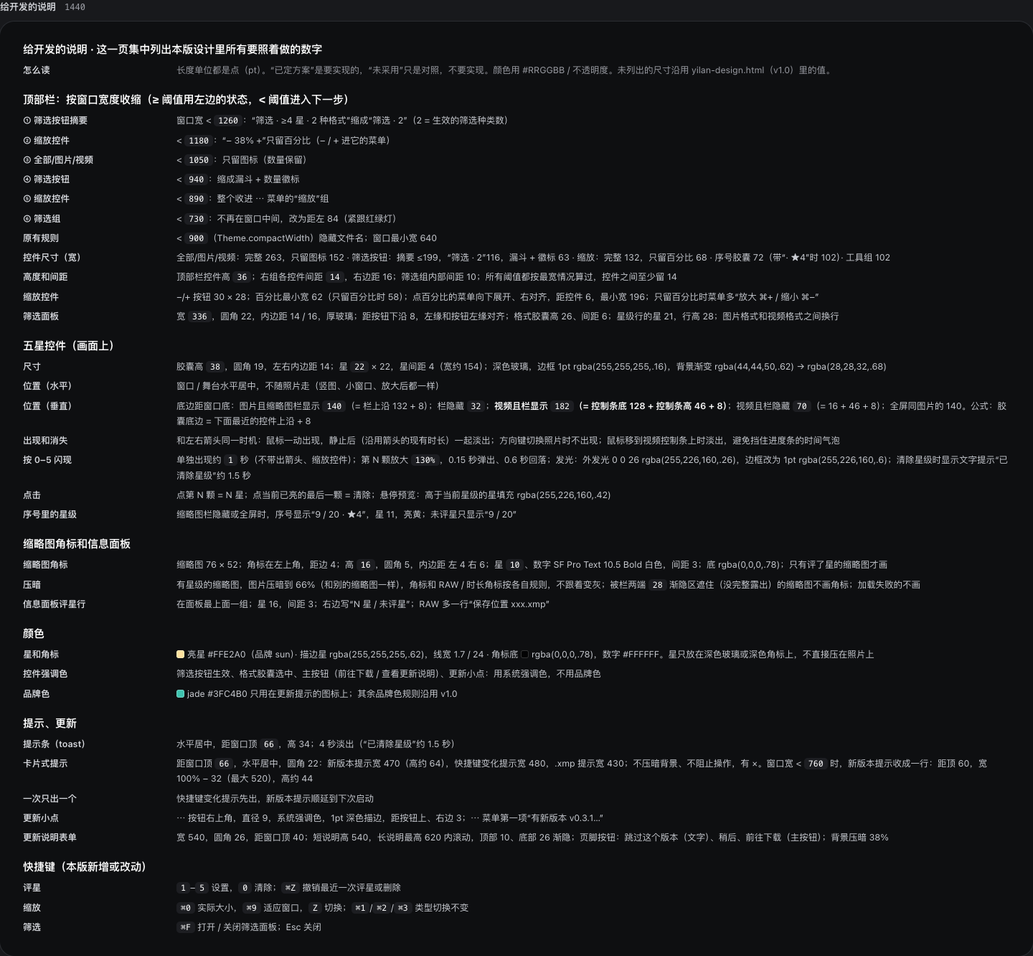
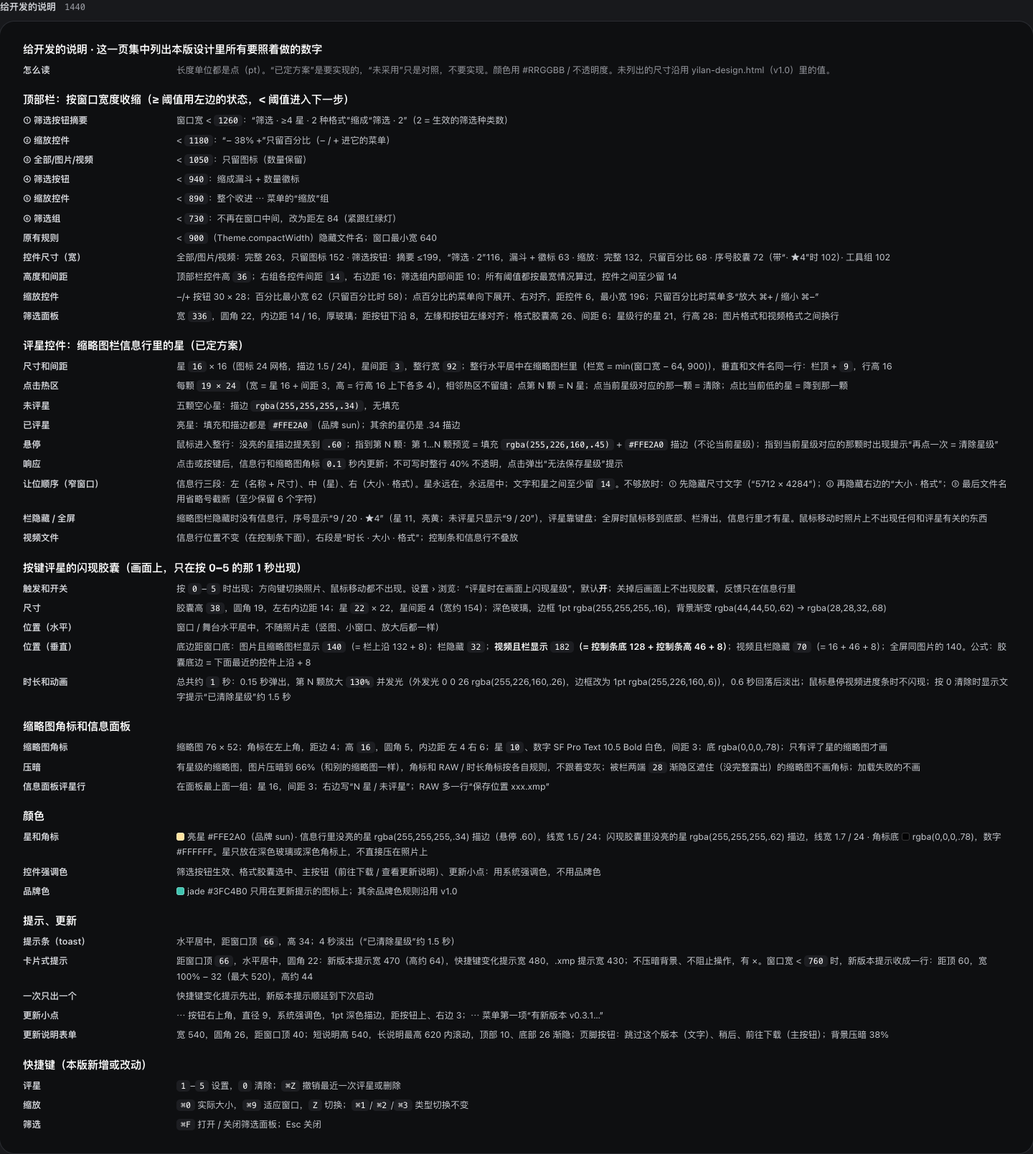
设计稿 v0.3：采用方案一（星放进缩略图栏信息行，按键评星时画面闪现），更新主稿、开发说明和方案记录页

diff --git a/changes/v0.3/design/index.html b/changes/v0.3/design/index.html
@@ -479,6 +479,13 @@ html,body{margin:0;background:var(--canvas);color:var(--t1);font-family:var(--sf
 .devn .g2 b{color:var(--label-2);font-weight:600}
 .devn code{font:500 11.5px var(--mono);color:#fff;background:#1d1e22;border-radius:5px;padding:1px 6px}
 .devn .sw2{display:inline-block;width:11px;height:11px;border-radius:3px;vertical-align:-1px;margin-right:4px;box-shadow:inset 0 0 0 1px rgba(255,255,255,.25)}
+
+/* 方案一：信息行里的星（缩略图栏信息行，居中，16pt） */
+.mstars{display:flex;gap:3px;align-items:center;height:16px;white-space:nowrap}
+.mstars .st{width:16px;height:16px;stroke-width:1.5}
+.mstars .st:not(.on):not(.hv){stroke:rgba(255,255,255,.34)}
+.mstars.hov .st:not(.on):not(.hv){stroke:rgba(255,255,255,.6)}
+.mstars .st.hv{fill:rgba(255,226,160,.45);stroke:var(--brand-sun)}
 </style>
 </head>
 <body>
@@ -712,10 +719,17 @@ const rby=n=>RL.find(x=>x.n===n);
 const FL=RL.filter(x=>x.r>=4);               /* ≥4 星：7 个 */
 const atLeast=n=>RL.filter(x=>x.r>=n).length, unrated=RL.filter(x=>!x.r).length;
 
-/* 画面上的五星控件：深色玻璃胶囊，锚在舞台底边正中，缩略图栏上沿再往上 8（栏隐藏或全屏时距底 32 / 140）。
-   和箭头、缩放控件一起出现（鼠标移动）；按 0–5 时单独闪现约 1 秒 */
+/* 按键评星时闪现的五星胶囊：深色玻璃，锚在舞台底边正中，缩略图栏上沿再往上 8（栏隐藏或全屏时距底 32 / 140）。
+   只在按 0–5 时闪现约 1 秒（设置里可关），鼠标移动时不出现 */
 function stageStars(n,o={}){const bt=o.video?(o.nodock?70:182):(o.nodock?32:140);   /* 视频：贴着控制条上沿再往上 8（控制条距底 128 或 16，高 46） */
   return`<div class="rate g adapt ${o.flash?'flash':''}" style="bottom:${bt}px">${stars5(n,22,{hv:o.hv,pop:o.pop})}</div>`}
+/* 信息行里的星：16pt，间距 3，居中在缩略图栏信息行（栏顶 +9，和文件名同一行）。hover = 悬停到第几颗（预览）；rel = 画板里单独摆放 */
+function rowStars(n,o={}){const hv=o.hover||0;
+  const st=[1,2,3,4,5].map(i=>star(16,!hv&&i<=n,(hv&&i<=hv?'hv':''))).join('');
+  return`<span class="mstars ${hv?'hov':''}" style="${o.rel?'':'position:absolute;left:50%;top:9px;transform:translateX(-50%)'}">${st}</span>`}
+const withR=(r,name='IMG_2034.HEIC',patch={})=>{const base=RL.find(x=>x.n===name),it={...base,...patch,r};return{it,list:RL.map(x=>x===base?it:x)}};
+const hideDims=(h,it)=>h.replace(`<span class="num">${it.w} × ${it.h}</span>`,'');
+const hideSize=(h,it)=>h.replace(`<span class="num">${it.vid?mmss(it.dur)+' · ':''}${it.s} · ${it.fmt}</span>`,'');
 /* 顶部缩放控件：− 百分比 +，高 36，和序号胶囊同高同材质，在顶部栏右组里、序号胶囊左边。
    mode：full = − 38% +；pct = 只留百分比（− / + 进菜单）；none = 整个收进 ⋯ 菜单 */
 const ZFULL=1200, SLIM=1060, ZMENU=920, LEFTAL=760;   /* 窗口宽度阈值：<1200 缩放只留百分比；<1060 筛选组瘦身；<920 缩放收进 ⋯ 菜单；<760 筛选组不再居中 */
@@ -800,36 +814,51 @@ function w3(o){const W=o.w||1280,compact=o.compact??W<900,T=tiers(W),st=o.st||ST
   const zm=o.zm||T.zoom;
   const hasZ=o.item&&!o.item.err&&!o.nozoom&&zm!=='none';
   const zcHtml=hasZ?zoomTop(o.pct||38,{mode:zm,...(o.zo||{})}):'';
-  const extra=(o.nofg?'':filterGroup(st,{mode:o.bm||T.btn,slim:T.slim,left:T.left,panel:o.panel}))+(o.chips?chipsBar(st):'')+(o.stars!=null?stageStars(o.stars,{nodock:o.nodock,flash:o.flash,pop:o.pop,video:!!(o.item&&o.item.vid)}):'')+(o.extra||'');
+  const extra=(o.nofg?'':filterGroup(st,{mode:o.bm||T.btn,slim:T.slim,left:T.left,panel:o.panel}))+(o.chips?chipsBar(st):'')+(o.flash&&o.stars!=null?stageStars(o.stars,{nodock:o.nodock,flash:o.flash,pop:o.pop,video:!!(o.item&&o.item.vid)}):'')+(o.extra||'');
   const {st:_s,bm:_bm,panel:_p,chips:_ch,zm:_b,stars:_c,flash:_d,pop:_e,nozoom:_f,nofg:_g,zo:_h,pct:_i,extra:_j,...rest}=o;
-  return win({list:R.list,noseg:1,compact,zcHtml,...rest,extra})}
+  const mm=o.metaMid!==undefined?o.metaMid:(o.item&&!o.item.err&&!o.nodock?rowStars(o.item.r||0):'');
+  return win({list:R.list,noseg:1,compact,zcHtml,...rest,metaMid:mm,extra})}
 
 /* ---- 1.1 ---- */
 const mainRest=w3({item:I34,nonav:1});
-const mainMove=w3({item:I34,stars:4,extra:cursorSVG(760,430)});
+const U0=withR(0);
+const rowUn=w3({item:U0.it,list:U0.list,nonav:1});
+const rowHover=w3({item:I34,nonav:1,metaMid:rowStars(4,{hover:3}),extra:cursorSVG(646,700)});
+const rowClear=w3({item:I34,nonav:1,metaMid:rowStars(4,{hover:4}),extra:`<div class="rtip gt" style="left:50%;bottom:142px;z-index:6">再点一次第 4 颗 = 清除星级</div>`+cursorSVG(666,700)});
 const rateMoment=w3({item:I34,nonav:1,stars:4,flash:1,pop:4});
-const stripHidden=w3({item:I34,nodock:1,stars:4,pillSfx:starSfx(4)});
-const posPortrait=w3({item:rby('IMG_2035.HEIC'),stars:3});
-const posSmall=w3({w:760,h:540,item:I34,stars:4,dw:700});
+const stripHidden=w3({item:I34,nodock:1,nonav:1,pillSfx:starSfx(4)});
+const LONGN='IMG_20261015_184622_HDR.HEIC',LG=withR(4,'IMG_2034.HEIC',{n:LONGN});
+const rowNarrow=hideDims(w3({w:640,h:440,item:LG.it,list:LG.list,dw:576,nonav:1}),LG.it);
+const giveWay=`<div class="board" style="width:1440px;height:360px;padding:30px 36px;flex-direction:column;gap:12px"><img class="bg" src="../../../design/photos/p1043.jpg" alt="">
+ ${[['宽度够：名称 + 尺寸 | 星 | 大小 + 格式（短名称）',h=>h.replace(LONGN,'IMG_2034.HEIC').replace(`<span class="num">${LG.it.w} × ${LG.it.h}</span>`,'<span class="num">5712 × 4284</span>')],['第 1 步：尺寸文字先让位（长名称）',h=>hideDims(h,LG.it)],['第 2 步：再让大小和格式；名称最后才被截断；星始终在、始终居中',h=>hideSize(hideDims(h,LG.it),LG.it)]].map(([l,f])=>`<div class="crow" style="gap:20px"><div style="width:560px;height:104px;position:relative;flex:none">${f(dock(LG.list,LG.list.indexOf(LG.it),1280,{dw:560,style:'left:0;transform:none;bottom:0',metaMid:rowStars(4)}))}</div><div style="font-size:12.5px;color:rgba(255,255,255,.8)">${l}</div></div>`).join('')}</div>`;
+const posPortrait=w3({item:rby('IMG_2035.HEIC'),nonav:1,stars:3,flash:1});
+const posSmall=w3({w:760,h:540,item:I34,nonav:1,stars:4,flash:1,dw:700});
 const posFs=win({w:1440,h:900,item:I34,list:RL,fs:1,extra:stageStars(4)});
 const posBoard=`<div class="board" style="width:1440px;height:430px;padding:28px 36px;flex-direction:row;gap:20px;align-items:flex-end"><img class="bg" src="../../../design/photos/p1043.jpg" alt="">${scaled(posPortrait,1280,800,.42)}${scaled(posSmall,760,540,.46)}${scaled(posFs,1440,900,.28)}</div>`;
 const IP=h=>h.replace('class="ip gt"','class="ip gt" style="bottom:132px"');
 const infoHeic=w3({item:I31,panel:300,stars:3,extra:IP(infoV3(I31,'photo','文件内部'))});
 const infoRaw=w3({item:rby('DSC_0812.ARW'),panel:300,stars:4,extra:IP(infoV3(rby('DSC_0812.ARW'),'photo','DSC_0812.xmp'))});
-const rateStates=`<div class="board" style="width:1440px;height:330px;padding:36px"><img class="bg" src="../../../design/photos/p1043.jpg" alt="">
- <div class="crow" style="gap:48px;align-items:flex-start">
-  <div class="var"><div class="rate g adapt rel">${stars5(0,22)}</div>未评星<br>五颗都是描边</div>
-  <div class="var"><div class="rate g adapt rel">${stars5(3,22,{hv:4})}</div>评了 3 星，鼠标移到第 4 颗<br>预览：第 4 颗半透明填充</div>
-  <div class="var"><div class="rate g adapt rel flash">${stars5(4,22,{pop:4})}</div>刚评 4 星<br>最后一颗放大 130% 并发光，约 1 秒后淡出</div>
-  <div class="var"><div class="rate g adapt rel">${stars5(5,22)}</div>5 星</div>
-  <div class="var"><div class="rate g adapt rel" style="opacity:.4">${stars5(0,22)}</div>文件不可写 / 无法评星<br>整条 40% 不透明，点击弹出提示</div>
+const dk=(inner,w=130)=>`<div class="g adapt" style="position:relative;width:${w}px;height:34px;border-radius:12px;display:grid;place-items:center">${inner}</div>`;
+const hitBox=`<span style="position:relative;display:inline-block;height:16px">${rowStars(4,{rel:1})}<span style="position:absolute;left:0;top:-4px;width:95px;height:24px;border:1px dashed #ff2d92;pointer-events:none;background:repeating-linear-gradient(90deg,transparent 0 18px,rgba(255,45,146,.7) 18px 19px)"></span></span>`;
+const rateStates=`<div class="board" style="width:1440px;height:380px;padding:30px 36px"><img class="bg" src="../../../design/photos/p1043.jpg" alt="">
+ <div class="cl" style="width:auto;margin-bottom:-12px">信息行里的星（16pt，放在缩略图栏信息行中间）</div>
+ <div class="crow" style="gap:36px;align-items:flex-start">
+  <div class="var">${dk(rowStars(0,{rel:1}))}未评星<br>淡空心星，描边 34%</div>
+  <div class="var">${dk(rowStars(4,{rel:1}))}已评 4 星<br>亮星 #FFE2A0，其余仍是淡空心</div>
+  <div class="var">${dk(rowStars(4,{rel:1,hover:3}))}悬停第 3 颗<br>1–3 颗预览填充，其余描边提亮到 60%</div>
+  <div class="var">${dk(rowStars(4,{rel:1,hover:4}))}悬停当前星（第 4 颗）<br>预览不变；点击 = 清除星级</div>
+  <div class="var">${dk(hitBox)}点击热区<br>每颗 19 × 24（粉色虚线，设计标注）</div>
+  <div class="var"><div class="g adapt" style="position:relative;width:130px;height:34px;border-radius:12px;display:grid;place-items:center;opacity:.4">${rowStars(0,{rel:1})}</div>不可写 / 无法评星<br>整行 40% 不透明，点击弹出提示</div>
  </div>
- <div class="crow" style="gap:48px;align-items:flex-start;margin-top:6px">
-  <div class="var"><div class="rate g adapt rel">${stars5(3,22)}</div>点击当前的第 3 颗 → 清除星级<br>（和按 0 一样）</div>
-  <div class="var"><div class="toast g adapt" style="position:relative;left:auto;transform:none">${ic('star')}已清除星级</div>清除时才有文字提示，约 1.5 秒后淡出</div>
+ <div class="cl" style="width:auto;margin:6px 0 -12px">按 0–5 的闪现（画面底部居中的胶囊，约 1 秒；设置里可关）</div>
+ <div class="crow" style="gap:48px;align-items:flex-start">
+  <div class="var"><div class="rate g adapt rel flash">${stars5(4,22,{pop:4})}</div>刚评 4 星<br>最后一颗放大 130% 并发光，约 1 秒后淡出</div>
+  <div class="var"><div class="toast g adapt" style="position:relative;left:auto;transform:none">${ic('star')}已清除星级</div>按 0 清除时才有文字提示，约 1.5 秒</div>
  </div></div>`;
-const contrast=`<div class="cmp" style="gap:24px">${[['p49','亮色画面（白色建筑）'],['p1016','中间调（岩石）'],['p1019','暗色画面']].map(([f,n])=>`<div style="gap:8px"><div style="position:relative;width:464px;height:200px;border-radius:14px;overflow:hidden"><img src="../../../design/photos/${f}.jpg" style="position:absolute;inset:0;width:100%;height:100%;object-fit:cover"><div class="rate g adapt" style="bottom:14px">${stars5(3,22)}</div><div style="position:absolute;left:12px;top:12px"><div class="th rt" style="width:76px;height:52px;opacity:1"><img src="../../../design/photos/t/${f}.jpg">${ratingBadge(4)}</div></div></div><span style="font-size:12px;color:var(--label)">${n}</span></div>`).join('')}</div>`;
-/* 缩略图角标可读性：左侧窗口里的缩略图栏，选中、未选中、被栏边缘渐隐遮住的 */
+const BR=n=>withR(n,'IMG_2051.JPG'),DK=n=>withR(n,'harbor_night.png');
+const rdim=(o,r)=>{const x=o(r);return crop(w3({item:x.it,list:x.list,nonav:1}),310,668,660,132)};
+const contrast=`<div class="board" style="width:1440px;height:400px;padding:28px 36px;flex-direction:row;gap:24px 28px;flex-wrap:wrap;align-content:flex-start"><img class="bg" src="../../../design/photos/p1043.jpg" alt="">
+ ${[['亮色照片 · 未评星',BR,0],['亮色照片 · 已评 4 星',BR,4],['暗色照片 · 未评星',DK,0],['暗色照片 · 已评 4 星',DK,4]].map(([l,o,r])=>`<div style="display:flex;flex-direction:column;gap:6px"><span style="font:600 12px var(--sf);color:rgba(255,255,255,.75)">${l}</span>${rdim(o,r)}</div>`).join('')}</div>`;
 const badgeBoard=`<div class="board" style="width:1440px;height:250px;padding:36px"><img class="bg" src="../../../design/photos/p1043.jpg" alt="">
  <div class="crow" style="gap:40px;align-items:flex-start"><div class="var"><div class="rel" style="width:700px;height:96px">${dock(RL,8,1200,{dw:700,style:'bottom:0'})}</div>栏两端 28 点是渐隐区：没完全露出的缩略图不画角标</div>
  <div class="var"><div style="display:flex;gap:10px;align-items:center"><div class="th rt" style="width:76px;height:52px;opacity:1"><img src="../../../design/photos/t/p1016.jpg">${ratingBadge(4)}</div><div class="th rt on" style="width:76px;height:52px;transform:none"><img src="../../../design/photos/t/p1016.jpg">${ratingBadge(4)}</div></div>未选中 / 选中：亮黄星 + 白色数字<br>黑底 78%，高 16 点</div></div></div>`;
@@ -884,10 +913,10 @@ const noticeKeys=w3({item:I34,stars:4,extra:`<div class="hint gt" style="top:66p
 function settingsBrowse3(){let h=settings('browse');
   const row=(l,c,s='',ann='')=>`<div class="row" ${ann?`data-ann="${ann}"`:''}><div class="lb">${l}${s?`<small>${s}</small>`:''}</div>${c}</div>`;
   const rad=(on,l,s)=>`<div class="row" style="padding:10px 14px"><div class="rd ${on?'on':''}"></div><div class="lb">${l}<small>${s}</small></div></div>`;
-  const add=`<div class="grp">${row('打星后自动跳到下一张','<div class="tg"><i></i></div>','默认关闭。打开后，按 1–5 或 0 评星会立刻显示下一张','v0.3 新增')}</div>
+  const add=`<div class="grp">${row('评星时在画面上闪现星级','<div class="tg on"><i></i></div>','默认打开。按 0–5 评星后，画面底部居中闪现约 1 秒五星；关掉后画面上不出现任何东西，反馈只在缩略图栏信息行里','v0.3 新增')}${row('打星后自动跳到下一张','<div class="tg"><i></i></div>','默认关闭。打开后，按 1–5 或 0 评星会立刻显示下一张','v0.3 新增')}</div>
   <div style="display:flex;flex-direction:column;gap:6px"><div class="mhead" style="padding:0 4px" data-ann="v0.3 新增">星级保存到哪里</div><div class="grp">${rad(1,'写入文件内部（推荐，其他软件可读）','JPEG、PNG、HEIC 等直接写进文件的元数据，预览、Lightroom 等都能读到')}${rad(0,'一律使用旁边的 .xmp 小文件','不改动图片本身；换到别的软件时要连同 .xmp 一起带走')}</div><div class="mrow">RAW（ARW、CR3、NEF 等）不能写入文件内部，始终使用旁边的 .xmp。</div></div>`;
   const key='<div class="grp"><div class="row"><div class="lb">自动隐藏控件';
-  return h.replace(key,add+key).replace('height:700px','height:950px')}
+  return h.replace(key,add+key).replace('height:700px','height:1010px')}
 function settingsKeys3(){let h=settings('keys');
   const R='<div class="row" style="min-height:31px;padding:4px 14px">';
   const ann=(label,a)=>{h=h.replace(R+'<div class="lb">'+label,'<div class="row" data-ann="'+a+'" style="min-height:31px;padding:4px 14px"><div class="lb">'+label)};
@@ -962,15 +991,14 @@ function settingsGeneral3(){let h=settings('general');
 /* ---- 视频文件上的五星：贴着视频控制条上沿 ---- */
 const bigplay=`<div class="bigplay g" style="left:601px;top:298px">${ic('play')}</div>`;
 const vidRest=w3({item:IV,nonav:1,extra:bigplay+vbar(IV,12,false)});
-const vidMove=w3({item:IV,stars:4,extra:bigplay+vbar(IV,12,false)+cursorSVG(700,480)});
 const vidFlash=w3({item:IV,nonav:1,stars:4,flash:1,pop:4,extra:vbar(IV,27,true)});
 const vidFiltered=w3({item:IV,st:STV,stars:4,extra:bigplay+vbar(IV,12,false)});
 const ruleCrop=(html,capB,note)=>{const y0=520,top=800-y0-capB;   /* 胶囊底边在局部图里的 y；窗口底在 y = 280 */
   return `<div style="position:relative;flex:none">${crop(html,290,y0,700,280)}
    <div class="rl v" style="left:620px;top:${top}px;height:${capB}px"></div><div class="rl h" style="left:600px;width:40px;top:${top}px"></div><div class="rlb" style="left:524px;top:${top+capB/2-9}px">${note}</div></div>`};
 const ruleBoard=`<div class="board" style="width:1440px;height:380px;padding:32px 36px;flex-direction:row;gap:40px"><img class="bg" src="../../../design/photos/p1043.jpg" alt="">
- <div style="display:flex;flex-direction:column;gap:8px"><span style="font:600 12px var(--sf);color:rgba(255,255,255,.7)">图片：胶囊底边距窗口底 140 = 缩略图栏上沿 132 + 8</span>${ruleCrop(mainMove,140,'距底 140')}</div>
- <div style="display:flex;flex-direction:column;gap:8px"><span style="font:600 12px var(--sf);color:rgba(255,255,255,.7)">视频：胶囊底边距窗口底 182 = 控制条底 128 + 控制条高 46 + 8</span>${ruleCrop(vidMove,182,'距底 182')}</div></div>`;
+ <div style="display:flex;flex-direction:column;gap:8px"><span style="font:600 12px var(--sf);color:rgba(255,255,255,.7)">图片闪现：胶囊底边距窗口底 140 = 缩略图栏上沿 132 + 8</span>${ruleCrop(rateMoment,140,'距底 140')}</div>
+ <div style="display:flex;flex-direction:column;gap:8px"><span style="font:600 12px var(--sf);color:rgba(255,255,255,.7)">视频闪现：胶囊底边距窗口底 182 = 控制条底 128 + 控制条高 46 + 8</span>${ruleCrop(vidFlash,182,'距底 182')}</div></div>`;
 const devNotes=`<div class="devn">
  <div><h4>给开发的说明 · 这一页集中列出本版设计里所有要照着做的数字</h4><div class="g2" style="color:var(--label)"><b>怎么读</b><span>长度单位都是点（pt）。“已定方案”是要实现的，“未采用”只是对照，不要实现。颜色用 #RRGGBB / 不透明度。未列出的尺寸沿用 yilan-design.html（v1.0）里的值。</span></div></div>
  <div><h4>顶部栏：按窗口宽度收缩（≥ 阈值用左边的状态，< 阈值进入下一步）</h4><div class="g2">
@@ -986,14 +1014,23 @@ const devNotes=`<div class="devn">
   <b>缩放控件</b><span>−/+ 按钮 30 × 28；百分比最小宽 62（只留百分比时 58）；点百分比的菜单向下展开、右对齐，距控件 6，最小宽 196；只留百分比时菜单多“放大 ⌘+ / 缩小 ⌘−”</span>
   <b>筛选面板</b><span>宽 <code>336</code>，圆角 22，内边距 14 / 16，厚玻璃；距按钮下沿 8，左缘和按钮左缘对齐；格式胶囊高 26、间距 6；星级行的星 21，行高 28；图片格式和视频格式之间换行</span>
  </div></div>
- <div><h4>五星控件（画面上）</h4><div class="g2">
+ <div><h4>评星控件：缩略图栏信息行里的星（已定方案）</h4><div class="g2">
+  <b>尺寸和间距</b><span>星 <code>16</code> × 16（图标 24 网格，描边 1.5 / 24），星间距 <code>3</code>，整行宽 <code>92</code>；整行水平居中在缩略图栏里（栏宽 = min(窗口宽 − 64, 900)），垂直和文件名同一行：栏顶 + <code>9</code>，行高 16</span>
+  <b>点击热区</b><span>每颗 <code>19 × 24</code>（宽 = 星 16 + 间距 3，高 = 行高 16 上下各多 4），相邻热区不留缝；点第 N 颗 = N 星；点当前星级对应的那一颗 = 清除；点比当前低的星 = 降到那一颗</span>
+  <b>未评星</b><span>五颗空心星：描边 <code>rgba(255,255,255,.34)</code>，无填充</span>
+  <b>已评星</b><span>亮星：填充和描边都是 <code>#FFE2A0</code>（品牌 sun）；其余的星仍是 .34 描边</span>
+  <b>悬停</b><span>鼠标进入整行：没亮的星描边提亮到 <code>.60</code>；指到第 N 颗：第 1…N 颗预览 = 填充 <code>rgba(255,226,160,.45)</code> + <code>#FFE2A0</code> 描边（不论当前星级）；指到当前星级对应的那颗时出现提示“再点一次 = 清除星级”</span>
+  <b>响应</b><span>点击或按键后，信息行和缩略图角标 <code>0.1</code> 秒内更新；不可写时整行 40% 不透明，点击弹出“无法保存星级”提示</span>
+  <b>让位顺序（窄窗口）</b><span>信息行三段：左（名称 + 尺寸）、中（星）、右（大小 · 格式）。星永远在，永远居中；文字和星之间至少留 <code>14</code>。不够放时：① 先隐藏尺寸文字（“5712 × 4284”）；② 再隐藏右边的“大小 · 格式”；③ 最后文件名用省略号截断（至少保留 6 个字符）</span>
+  <b>栏隐藏 / 全屏</b><span>缩略图栏隐藏时没有信息行，序号显示“9 / 20 · ★4”（星 11，亮黄；未评星只显示“9 / 20”），评星靠键盘；全屏时鼠标移到底部、栏滑出，信息行里才有星。鼠标移动时照片上不出现任何和评星有关的东西</span>
+  <b>视频文件</b><span>信息行位置不变（在控制条下面），右段是“时长 · 大小 · 格式”；控制条和信息行不叠放</span>
+ </div></div>
+ <div><h4>按键评星的闪现胶囊（画面上，只在按 0–5 的那 1 秒出现）</h4><div class="g2">
+  <b>触发和开关</b><span>按 <code>0</code>–<code>5</code> 时出现；方向键切换照片、鼠标移动都不出现。设置 › 浏览：“评星时在画面上闪现星级”，默认<b style="color:#fff">开</b>；关掉后画面上不出现胶囊，反馈只在信息行里</span>
   <b>尺寸</b><span>胶囊高 <code>38</code>，圆角 19，左右内边距 14；星 <code>22</code> × 22，星间距 4（宽约 154）；深色玻璃，边框 1pt rgba(255,255,255,.16)，背景渐变 rgba(44,44,50,.62) → rgba(28,28,32,.68)</span>
   <b>位置（水平）</b><span>窗口 / 舞台水平居中，不随照片走（竖图、小窗口、放大后都一样）</span>
   <b>位置（垂直）</b><span>底边距窗口底：图片且缩略图栏显示 <code>140</code>（= 栏上沿 132 + 8）；栏隐藏 <code>32</code>；<b style="color:#fff">视频且栏显示 <code>182</code>（= 控制条底 128 + 控制条高 46 + 8）</b>；视频且栏隐藏 <code>70</code>（= 16 + 46 + 8）；全屏同图片的 140。公式：胶囊底边 = 下面最近的控件上沿 + 8</span>
-  <b>出现和消失</b><span>和左右箭头同一时机：鼠标一动出现，静止后（沿用箭头的现有时长）一起淡出；方向键切换照片时不出现；鼠标移到视频控制条上时淡出，避免挡住进度条的时间气泡</span>
-  <b>按 0–5 闪现</b><span>单独出现约 <code>1</code> 秒（不带出箭头、缩放控件）；第 N 颗放大 <code>130%</code>，0.15 秒弹出、0.6 秒回落；发光：外发光 0 0 26 rgba(255,226,160,.26)，边框改为 1pt rgba(255,226,160,.6)；清除星级时显示文字提示“已清除星级”约 1.5 秒</span>
-  <b>点击</b><span>点第 N 颗 = N 星；点当前已亮的最后一颗 = 清除；悬停预览：高于当前星级的星填充 rgba(255,226,160,.42)</span>
-  <b>序号里的星级</b><span>缩略图栏隐藏或全屏时，序号显示“9 / 20 · ★4”，星 11，亮黄；未评星只显示“9 / 20”</span>
+  <b>时长和动画</b><span>总共约 <code>1</code> 秒：0.15 秒弹出，第 N 颗放大 <code>130%</code> 并发光（外发光 0 0 26 rgba(255,226,160,.26)，边框改为 1pt rgba(255,226,160,.6)），0.6 秒回落后淡出；鼠标悬停视频进度条时不闪现；按 0 清除时显示文字提示“已清除星级”约 1.5 秒</span>
  </div></div>
  <div><h4>缩略图角标和信息面板</h4><div class="g2">
   <b>缩略图角标</b><span>缩略图 76 × 52；角标在左上角，距边 4；高 <code>16</code>，圆角 5，内边距 左 4 右 6；星 <code>10</code>、数字 SF Pro Text 10.5 Bold 白色，间距 3；底 rgba(0,0,0,.78)；只有评了星的缩略图才画</span>
@@ -1001,7 +1038,7 @@ const devNotes=`<div class="devn">
   <b>信息面板评星行</b><span>在面板最上面一组；星 16，间距 3；右边写“N 星 / 未评星”；RAW 多一行“保存位置 xxx.xmp”</span>
  </div></div>
  <div><h4>颜色</h4><div class="g2">
-  <b>星和角标</b><span><i class="sw2" style="background:#ffe2a0"></i>亮星 #FFE2A0（品牌 sun）· 描边星 rgba(255,255,255,.62)，线宽 1.7 / 24 · 角标底 <i class="sw2" style="background:#000;opacity:.78"></i>rgba(0,0,0,.78)，数字 #FFFFFF。星只放在深色玻璃或深色角标上，不直接压在照片上</span>
+  <b>星和角标</b><span><i class="sw2" style="background:#ffe2a0"></i>亮星 #FFE2A0（品牌 sun）· 信息行里没亮的星 rgba(255,255,255,.34) 描边（悬停 .60），线宽 1.5 / 24；闪现胶囊里没亮的星 rgba(255,255,255,.62) 描边，线宽 1.7 / 24 · 角标底 <i class="sw2" style="background:#000;opacity:.78"></i>rgba(0,0,0,.78)，数字 #FFFFFF。星只放在深色玻璃或深色角标上，不直接压在照片上</span>
   <b>控件强调色</b><span>筛选按钮生效、格式胶囊选中、主按钮（前往下载 / 查看更新说明）、更新小点：用系统强调色，不用品牌色</span>
   <b>品牌色</b><span><i class="sw2" style="background:#3fc4b0"></i>jade #3FC4B0 只用在更新提示的图标上；其余品牌色规则沿用 v1.0</span>
  </div></div>
@@ -1030,50 +1067,47 @@ ${fr('封面','1440 × 810',`<div class="cover"><img src="../../../design/photos
  </div></div>`)}
 ${fr('给开发的说明','1440',devNotes,'')}`);
 
-ch('01','v0.3 评星与筛选','评星（键盘 1–5 / 0，或点画面上的五星）、筛选（星级、格式）、顶部栏缩放控件、快捷键调整、写入失败和 .xmp 提示、导出筛选结果、更新提醒。亮星用品牌 sun #FFE2A0。',`
-<h3 class="sub"><span>1.1</span>评星：画面、缩略图、信息面板</h3>
+ch('01','v0.3 评星与筛选','评星（键盘 1–5 / 0，或点缩略图栏信息行里的星）、筛选（星级、格式）、顶部栏缩放控件、快捷键调整、写入失败和 .xmp 提示、导出筛选结果、更新提醒。亮星用品牌 sun #FFE2A0。',`
+<h3 class="sub"><span>1.1</span>评星：信息行里的星、缩略图角标、信息面板</h3>
 <div class="frames">
- ${fr('主界面 · 静止','1280 × 800',mainRest,'鼠标没动：左右箭头和底部五星隐藏；顶部栏（含缩放控件）一直在；缩略图上有星角标的是已评星的文件')}
- ${fr('主界面 · 鼠标移动','1280 × 800',mainMove,'左右箭头和底部五星一起出现，鼠标静止后一起淡出')}
- ${fr('评星的瞬间 · 按下 4','1280 × 800',rateMoment,'只闪现五星，不带出箭头；第 4 颗放大发光就是反馈，约 1 秒后淡出；缩略图角标同步变成 4')}
- ${fr('缩略图栏隐藏时 · 序号里带星级','1280 × 800',stripHidden,'按 T 隐藏缩略图栏（全屏也一样）：右上角序号后面加 ★ 和星级，不用呼出五星也能看到')}
- ${fr('五星控件的位置 · 竖图、小窗口、全屏','1440 × 430',posBoard,'位置不跟照片走，永远在舞台底边正中、缩略图栏上沿再往上 8')}
+ ${fr('主界面 · 已评星，静止','1280 × 800',mainRest,'评星控件是缩略图栏信息行里居中的五颗星（16pt）：左边文件名和尺寸，右边大小和格式。照片上没有任何和评星有关的东西，鼠标移动也不会出现')}
+ ${fr('信息行 · 未评星','1280 × 800',rowUn,'五颗很淡的空心星（描边白色 34%）：不评星的人几乎看不见，留心就能发现')}
+ ${fr('信息行 · 悬停第 3 颗','1280 × 800',rowHover,'整行描边提亮到 60%，第 1–3 颗预览填充；点击 = 设为 3 星')}
+ ${fr('信息行 · 悬停当前星','1280 × 800',rowClear,'当前是 4 星，指到第 4 颗时出现提示“再点一次 = 清除星级”；点击后恢复成未评星，并显示“已清除星级”')}
+ ${fr('评星的瞬间 · 按下 4（胶囊闪现）','1280 × 800',rateMoment,'按 0–5 时，画面底部居中的胶囊闪现约 1 秒，第 4 颗放大发光；信息行里的星同时更新。设置里可关闭闪现')}
+ ${fr('缩略图栏隐藏时 · 序号里带星级','1280 × 800',stripHidden,'按 T 隐藏缩略图栏（全屏也一样）：信息行不在了，右上角序号后面加 ★ 和星级，只读；评星靠键盘（闪现照常）')}
+ ${fr('信息行 · 窄窗口 640（名称很长）','640 × 440',rowNarrow,'空间不够时，信息行先隐藏尺寸文字；星始终保留并居中')}
+ ${fr('信息行的让位顺序','1440 × 360',giveWay,'① 尺寸文字 → ② 大小和格式 → ③ 名称最后才被截断；星永远不让位')}
+ ${fr('闪现胶囊的位置 · 竖图、小窗口、全屏','1440 × 430',posBoard,'闪现胶囊不跟照片走，永远在舞台底边正中、缩略图栏上沿再往上 8')}
 </div>
 ${legend([
- ['已定方案 · 五星控件位置','深色玻璃胶囊，锚在舞台底边正中、缩略图栏上沿之上 8 点，不贴照片边缘。竖图、小窗口、放大后位置都一样；缩略图栏隐藏时距窗口底 32；全屏时距屏幕底 140，给从底部滑入的缩略图栏留位置。'],
- ['已定方案 · 缩略图角标','左上角黑底小角标“★ 4”（亮黄星 + 白色数字），不和右下角的 RAW / 时长、左下角的“新”冲突。'],
+ ['已定方案 · 评星控件在信息行里','五颗星居中放在缩略图栏的信息行里（和文件名同一行），点击评星。鼠标移动时照片上不出现任何和评星有关的东西，所以从不评星的人只会看到信息行里五颗很淡的空心星。'],
+ ['点击和悬停','点第 N 颗 = N 星；点当前星级对应的那一颗 = 清除；点比当前低的星 = 降到那一颗。悬停时整行描边提亮，第 1…N 颗预览填充；悬停当前星时提示“再点一次 = 清除星级”。点击后 0.1 秒内更新，缩略图角标同步。视频和图片都能评。'],
+ ['按键评星的反馈（已定：闪现 b）','按 0–5 时，画面底部居中的胶囊闪现约 1 秒（0.15 秒弹出、0.6 秒回落），第 N 颗放大 130% 并发光；信息行里的星同时更新。用方向键切换照片时不闪现。设置 › 浏览里有开关“评星时在画面上闪现星级”，默认开；关掉后画面上什么都不出现，反馈只在信息行里。按 0 清除时显示文字提示“已清除星级”约 1.5 秒。'],
+ ['序号里的星级','缩略图栏隐藏或全屏时，右上角序号变成“9 / 20 · ★4”（星为亮黄）；未评星时只显示“9 / 20”。缩略图栏显示时不加，因为信息行和缩略图角标已经显示了。'],
+ ['缩略图栏隐藏和全屏','信息行随缩略图栏一起隐藏，所以不能用鼠标评星，只能用键盘；全屏时鼠标移到底部、缩略图栏滑出，信息行里的星才出现。这是已知的取舍。'],
+ ['缩略图角标（规则）','只有评了星的缩略图才有角标，未评星的文件夹和现在一样干净。有星级的缩略图仍压暗到 66%，但角标不跟着变暗。被栏两端渐隐遮住（没完整露出）的缩略图不画角标；加载失败的缩略图不显示。缩略图栏的环境光色调不变。'],
+ ['颜色','亮星固定 sun #FFE2A0（品牌色），淡空心星是白色 34% 描边。信息行在深色玻璃上；闪现胶囊也是深色玻璃；星星不直接压在照片上；控件按钮仍跟随系统强调色。'],
+ ['打星后自动下一张','设置里可开（默认关）。开启后评星立刻显示下一张；如果闪现开着，胶囊在新照片上闪现一下，让人知道上一张已记录。'],
 ])}
-<h3 class="sub" style="font-size:16px;margin-top:0"><span>视频</span>视频文件上的五星</h3>
+<h3 class="sub" style="font-size:16px;margin-top:0"><span>视频</span>视频文件上的评星</h3>
 <div class="frames">
- ${fr('视频 · 静止','1280 × 800',vidRest,'视频控制条一直在；箭头和五星隐藏，中间是播放按钮（停在第一帧）')}
- ${fr('视频 · 鼠标移动','1280 × 800',vidMove,'箭头出现，五星出现在控制条正上方，和控制条之间留 8；五星不盖控制条，控制条也不盖五星')}
- ${fr('视频 · 播放中按下 4','1280 × 800',vidFlash,'只闪现五星（约 1 秒），视频继续播放，控制条不变')}
- ${fr('视频 · 筛选状态（视频 · ≥4 星）','1280 × 800',vidFiltered,'筛选按钮“筛选 · ≥4 星”，类型是视频，序号“1 / 2”；五星规则不变')}
- ${fr('五星位置 · 图片和视频对比','1440 × 380',ruleBoard,'同一个水平位置，只是垂直方向让开控制条：140 → 182（上移 42）')}
+ ${fr('视频 · 静止','1280 × 800',vidRest,'评星控件仍在缩略图栏信息行里，在视频控制条下面，互不叠放；不再需要给控制条让位的特殊规则；鼠标移动也不出现任何评星控件')}
+ ${fr('视频 · 播放中按下 4','1280 × 800',vidFlash,'闪现胶囊出现在视频控制条正上方，和控制条之间留 8，视频继续播放，约 1 秒后淡出')}
+ ${fr('视频 · 筛选状态（视频 · ≥4 星）','1280 × 800',vidFiltered,'筛选按钮“筛选 · ≥4 星”，类型是视频，序号“1 / 2”；信息行里的星照常')}
+ ${fr('闪现胶囊的位置 · 图片和视频对比','1440 × 380',ruleBoard,'同一个水平位置，视频时垂直方向让开控制条：140 → 182（上移 42）')}
 </div>
 ${legend([
- ['视频上的规则','五星胶囊的底边永远在“它下面最近的控件”上沿再往上 8：图片时下面是缩略图栏（上沿距窗口底 132），所以是 140；视频时下面是视频控制条（底 128、高 46），所以是 182。水平方向不变，仍然居中，用户的视线和鼠标位置只需要往上移一点。缩略图栏隐藏时：图片 32，视频 70（控制条距底 16）。'],
- ['为什么放在控制条上面','控制条宽 580 居中，占满了舞台底部中间；五星和它同一条竖轴，向上挪 42 是最小的改动，用户不用重新找位置。放到控制条两侧会偏离中轴，放进控制条里会让它变得更挤、也更容易误点进度条。'],
- ['不遮挡进度条','五星在控制条上方，控制条在下方，两者之间始终留 8 点，不重叠。鼠标悬停进度条时会出现时间气泡（在进度条上方 16 点），这时五星淡出让位，鼠标离开后回来。播放时按 0–5：只闪现五星，视频不暂停，控制条不动。'],
- ['图片区','视频文件的画面区在控制条上方再让出 16（原有规则：底部让出 190），五星浮在画面下沿上，不改变画面大小。'],
+ ['视频上的闪现','闪现胶囊的底边永远在“它下面最近的控件”上沿再往上 8：图片时下面是缩略图栏（上沿距窗口底 132），所以是 140；视频时下面是视频控制条（底 128、高 46），所以是 182。水平方向仍然居中。缩略图栏隐藏时：图片 32，视频 70（控制条距底 16）。闪现只有约 1 秒，鼠标悬停进度条时不闪现（时间气泡优先）。播放时按 0–5：只闪现胶囊，视频不暂停，控制条不动。'],
+ ['信息行不受控制条影响','控制条在信息行上面（底 128），信息行在缩略图栏里，两者本来就不重叠，所以平时（包括鼠标移动）不再有“胶囊和控制条抢位置”的问题。'],
 ])}
-
 <div class="frames" style="margin-top:8px">
- ${fr('评星控件 · 状态','1440 × 330',rateStates,'悬停预览、刚评分、清除、不可写')}
- ${fr('星的可读性 · 亮、中、暗三种照片','1440 × 260',contrast,'星一律在深色玻璃 / 深色角标上，亮星用 sun #FFE2A0；三种照片上对比度都够')}
+ ${fr('评星控件 · 状态','1440 × 380',rateStates,'信息行里的星：未评星、已评、悬停、清除、热区；以及按键后的闪现和清除提示')}
+ ${fr('信息行里的星 · 亮、暗照片上的可读性','1440 × 400',contrast,'栏的玻璃随照片取色；左列是未评星的淡空心星，右列是已评星；亮、暗照片上都看得清')}
  ${fr('缩略图角标 · 可读性','1440 × 250',badgeBoard,'未选中的缩略图也是亮黄星 + 白色数字；被栏边缘渐隐遮住的缩略图不画角标')}
  ${fr('信息面板 · 评星行（JPEG / HEIC）','1280 × 800',infoHeic,'“评星”在面板最上面，星可以直接点；写在文件内部')}
  ${fr('信息面板 · 评星行（RAW）','1280 × 800',infoRaw,'RAW 的星级存在旁边的 .xmp 里，“保存位置”写出文件名')}
 </div>
-${legend([
- ['打星','键盘 1–5 设置星级，0 清除；点画面上的第 N 颗设置 N 星，点当前已亮的最后一颗清除。视频和图片都能评。信息面板里的星同样可以点。⌘Z 撤销最近一次评星（和撤销删除共用，见 1.6 的编辑菜单）。'],
- ['五星什么时候出现','不常驻。鼠标一动，它和左右箭头一起出现，鼠标静止后一起淡出。按 0–5 评星时只单独闪现约 1 秒（不带出箭头）；用方向键切换照片时不出现。缩放控件在顶部栏里，不跟五星一起出现和消失。'],
- ['反馈','评分后第 N 颗放大 130% 并发光（0.15 秒弹出、0.6 秒回落），不再加文字气泡；缩略图角标同步变化。只有清除星级时才显示一条文字提示“已清除星级”。'],
- ['序号里的星级','缩略图栏隐藏或全屏时，右上角序号变成“9 / 20 · ★4”（星为亮黄）；未评星时只显示“9 / 20”。缩略图栏显示时不加，因为缩略图角标已经显示了。'],
- ['缩略图角标（规则）','只有评了星的缩略图才有角标，未评星的文件夹和现在一样干净。有星级的缩略图仍压暗到 66%，但角标不跟着变暗。被栏两端渐隐遮住（没完整露出）的缩略图不画角标；加载失败的缩略图不显示。缩略图栏的环境光色调不变。'],
- ['颜色','亮星固定 sun #FFE2A0（品牌色），描边星白色 62%。星星只放在深色玻璃或深色角标上，不直接压在照片上；控件按钮仍跟随系统强调色。'],
- ['打星后自动下一张','设置里可开（默认关）。开启后评星立刻显示下一张，五星在新照片上闪现一下，让人知道上一张已记录。'],
-])}
 
 <h3 class="sub"><span>1.2</span>缩放控件（顶部栏）与窄窗口</h3>
 <div class="frames">
@@ -1148,7 +1182,7 @@ ${legend([
 
 <h3 class="sub"><span>1.5</span>设置：浏览、快捷键</h3>
 <div class="frames">
- ${fr('设置 · 浏览（评星）','820 × 950',`<div class="annwrap">${settingsBrowse3()}</div>`,'新增“打星后自动跳到下一张”（默认关）和“星级保存到哪里”。窗口外的粉色标签是设计标注，不属于界面')}
+ ${fr('设置 · 浏览（评星）','820 × 1010',`<div class="annwrap">${settingsBrowse3()}</div>`,'新增“评星时在画面上闪现星级”（默认开）、“打星后自动跳到下一张”（默认关）和“星级保存到哪里”。窗口外的粉色标签是设计标注，不属于界面')}
  ${fr('设置 · 快捷键','820 × 840',`<div class="annwrap">${settingsKeys3()}</div>`,'新增评星、Z 切换；适应窗口 / 实际大小改为 ⌘9 / ⌘0；撤销也覆盖评星。粉色标签是设计标注，不属于界面')}
 </div>
 ${legend([

diff --git a/changes/v0.3/design/star-options.html b/changes/v0.3/design/star-options.html
@@ -867,7 +867,7 @@ function settingsBrowse3(){let h=settings('browse');
 const o3Settings=(()=>{let h=settingsBrowse3();const a='<div class="grp"><div class="row" data-ann="v0.3 新增"><div class="lb">打星后自动跳到下一张';if(!h.includes(a))throw new Error('anchor');
   return h.replace(a,'<div class="grp"><div class="row" data-ann="方案三 新增"><div class="lb">在画面上显示评星控件<small>默认打开。关闭后，画面上不再出现五星，评星只用键盘 1–5 / 0 或信息面板里的星</small></div><div class="tg on"><i></i></div></div><div class="row" data-ann="v0.3 新增"><div class="lb">打星后自动跳到下一张').replace('height:950px','height:990px')})();
 /* 总览：对比表 + 1:1 底部对比 */
-const cmpTable=`<table class="cmpt"><thead><tr><th></th><th>方案一 <span class="pr">产品推荐</span><small>星放进缩略图栏信息行</small></th><th>方案二<small>胶囊在照片上，指针靠近才出现</small></th><th>方案三<small>现有设计 + 设置里的开关</small></th></tr></thead><tbody>
+const cmpTable=`<table class="cmpt"><thead><tr><th></th><th>方案一 <span class="pr">已采用</span><small>星放进缩略图栏信息行</small></th><th>方案二<small>胶囊在照片上，指针靠近才出现</small></th><th>方案三<small>现有设计 + 设置里的开关</small></th></tr></thead><tbody>
  <tr><th>照片是否被遮挡</th><td>从不。评星控件完全不在照片上</td><td>只在指针靠近底部中间时盖住照片底边约 38pt</td><td>鼠标一动就盖住照片底边约 38pt；用户可在设置里关掉</td></tr>
  <tr><th>不评星的人会看到什么</th><td>信息行里五颗很淡的空心星，几乎看不见，不在照片上</td><td>平时什么都没有；指针去缩略图栏时会看到胶囊闪一下</td><td>默认每次动鼠标都会看到（关掉开关后才看不到）</td></tr>
  <tr><th>鼠标评星是否方便</th><td>较弱：16pt 星在信息行里，要把鼠标移到栏上，目标小（命中区约 20pt）</td><td>中：22pt 星够大，但要先把指针移进触发区它才出现</td><td>最好：22pt 星，鼠标一动就在，离照片最近</td></tr>
@@ -877,18 +877,18 @@ const cmpTable=`<table class="cmpt"><thead><tr><th></th><th>方案一 <span clas
  <tr><th>开发改动量（相对已做好的画面胶囊）</th><td>中：新增信息行里的星控件（点击、悬停、闪现、栏上的布局让位）；画面胶囊可删，或只留作按键后的闪现</td><td>小：只加“指针在触发区内才显示”的判断和延时，要处理穿越误触</td><td>最小：只加一个设置开关</td></tr></tbody></table>`;
 const cmpCrops=`<div class="cmp" style="gap:24px">${[['方案一 · 星在信息行（已评 4 星）',w3({item:A.it,list:A.list,nonav:1,metaMid:rowStars(4)})],['方案二 · 指针在触发区内，胶囊出现',w3({item:A.it,list:A.list,stars:4,extra:cursorSVG(640,610)})],['方案三 · 现状：鼠标一动，胶囊出现',o3Move]].map(([l,h])=>`<div style="gap:8px"><span style="font:600 12px var(--sf);color:var(--label-2)">${l}</span>${crop(h,410,520,460,280)}</div>`).join('')}</div>`;
 
-ch('A','五星控件放哪里：三个方案对比','起因：画面上的五星胶囊虽然不常驻，但每次动鼠标都会出现，很多从不评星的用户也要看到。下面是三个方案，同一张照片、同一个窗口。方案一是产品推荐。',`
+ch('A','五星控件放哪里：三个方案对比','记录：画面上的五星胶囊每次动鼠标都会出现，很多从不评星的用户也要看到，所以重新选了位置。最终采用方案一（星放进缩略图栏信息行），按键评星时胶囊闪现约 1 秒，设置里可关。方案二、三只留一张图作记录。',`
 ${fr('对比表','1440',cmpTable,'')}
 ${fr('1:1 对比 · 窗口底部中间 460 × 280','1440',cmpCrops,'三个方案同一块区域，不用放大就能看出差别')}
 `);
 
-ch('1','方案一（产品推荐）：星在缩略图栏信息行里','信息行里：左边是文件名和尺寸，右边是大小和格式，五颗星居中。照片上永远没有任何和评星有关的东西。',`
+ch('1','方案一（已采用）：星在缩略图栏信息行里','信息行里：左边是文件名和尺寸，右边是大小和格式，五颗星居中。鼠标移动时照片上不出现任何和评星有关的东西；按 0–5 时胶囊在画面底部闪现约 1 秒（方案 b），设置里可关。',`
 <div class="frames">
  ${fr('方案一 · 未评星，静止','1280 × 800',o1Un,'五颗很淡的空心星（描边白色 34%）：几乎看不见，但留心就能发现；照片上什么都没有')}
  ${fr('方案一 · 已评星，静止','1280 × 800',o1Rated,'亮星 #FFE2A0，没评的星仍是淡空心星；缩略图左上角的角标照旧')}
  ${fr('方案一 · 鼠标悬停第 3 颗','1280 × 800',o1Hover,'悬停时整行描边提亮到 60%，第 1–3 颗预览填充（半透明黄）；点击 = 设为 3 星，点当前星 = 清除')}
- ${fr('方案一 · 按 4 的闪现 (a)：只有信息行里的星在原地放大','1280 × 800',o1FlashA,'第 4 颗放大 135% 并发光，整行出现淡黄底，约 1 秒；照片上什么都不出现。缺点：视线在照片上时，栏里的小动画容易错过')}
- ${fr('方案一 · 按 4 的闪现 (b)：画面底部居中的胶囊闪现','1280 × 800',o1FlashB,'只有按键时才在照片上出现，约 1 秒；信息行里的星同时更新。从不评星的人永远不会看到它；评星的人视线在照片上，反馈最醒目')}
+ ${frO('未采用','方案一 · 按 4 的闪现 (a)：只有信息行里的星在原地放大','1280 × 800',o1FlashA,'第 4 颗放大 135% 并发光，整行出现淡黄底，约 1 秒；照片上什么都不出现。缺点：视线在照片上时，栏里的小动画容易错过')}
+ ${frO('已定方案','方案一 · 按 4 的闪现 (b)：画面底部居中的胶囊闪现','1280 × 800',o1FlashB,'只有按键时才在照片上出现，约 1 秒；信息行里的星同时更新。从不评星的人永远不会看到它；评星的人视线在照片上，反馈最醒目')}
  ${fr('方案一 · 缩略图栏隐藏（按 T）','1280 × 800',o1Hidden,'栏隐藏后只有序号里的“9 / 20 · ★4”，只读；评星靠键盘。这是方案一的代价：隐藏栏时不能用鼠标评星')}
  ${fr('方案一 · 全屏，鼠标移到底部','1440 × 900',o1Fs,'全屏静止时什么都没有；鼠标移到底部，缩略图栏滑出，信息行里的星才出现')}
  ${fr('方案一 · 视频文件','1280 × 800',o1Video,'信息行在控制条下面，互不叠放；不再需要“胶囊上移到 182”的特殊规则，也不会和进度条的时间气泡打架')}
@@ -898,24 +898,21 @@ ch('1','方案一（产品推荐）：星在缩略图栏信息行里','信息行
 </div>
 `);
 
-ch('2','方案二：胶囊留在照片上，指针靠近才出现','触发区：缩略图栏上沿之上、水平居中的一条带（宽 520、高 100）。',`
+ch('2','方案二（未采用）：胶囊留在照片上，指针靠近才出现','只留一张图作记录。',`
 <div class="frames">
- ${fr('方案二 · 指针在照片别处','1280 × 800',o2Else,'箭头照常出现，没有五星；不评星的人平时看不到胶囊')}
- ${fr('方案二 · 指针进入触发区','1280 × 800',o2In,'粉色虚线是触发区（设计标注，不是界面）。进入后胶囊淡入，离开后淡出')}
- ${fr('方案二 · 指针去缩略图栏的路径','1280 × 800',o2Path,'缺点：缩略图栏就在触发区正下方，去栏上的指针必然穿过触发区，所以所有人去缩略图栏时都会看到胶囊闪一下；加“停留 0.3 秒才出现”能减轻，但不能消除，而且新用户几乎不会发现它')}
+ ${frO('未采用','方案二 · 指针进入触发区，胶囊出现','1280 × 800',o2In,'触发区（粉色虚线，设计标注）：宽 520、高 100，水平居中，紧贴缩略图栏上沿。没采用的原因：缩略图栏就在触发区正下方，去栏上的指针必然穿过它，所有人都会看到胶囊闪一下；新用户也几乎发现不了它')}
 </div>
 `);
 
-ch('3','方案三：现有设计 + 设置里的开关','不改画面，只加一个「在画面上显示评星控件」开关，默认打开；不想看到的人自己关。',`
+ch('3','方案三（未采用）：现有设计 + 设置里的开关','只留一张图作记录。',`
 <div class="frames">
- ${fr('方案三 · 现状：鼠标一动，胶囊出现','1280 × 800',o3Move,'和现有设计一样：箭头和五星一起出现，静止后一起淡出')}
- ${fr('方案三 · 设置 › 浏览（新增开关）','820 × 990',`<div class="annwrap">${o3Settings}</div>`,'关闭后画面上不再出现五星，评星改用键盘和信息面板里的星。粉色标签是设计标注')}
+ ${frO('未采用','方案三 · 现状：鼠标一动，胶囊出现','1280 × 800',o3Move,'没采用的原因：不评星的人每次动鼠标也看到胶囊，要自己去设置里关；默认的视觉成本由所有人承担')}
 </div>
 `);
 
-ch('4','设计师的意见','',`
-<div class="howto" style="max-width:1440px"><b>我的看法</b>
-<p style="margin:6px 0 0">我同意方案一的方向：评星是少数人的功能，不该让所有人在照片上付出视觉代价，所以“动鼠标时照片上什么都不出现”是对的。但我不同意把闪现反馈做成 (a)：评星的人眼睛盯着照片，栏里 16pt 的星在原地放大很容易错过，而按键评星几乎是最常见的评星方式。<b>我建议：方案一的信息行 + 闪现用 (b)</b>，也就是画面上的胶囊只在按下 0–5 的那一秒出现，平时（包括动鼠标）永远不出现。这样不评星的人永远看不到它，评星的人又有清楚的反馈，视频文件也只在按键那一秒需要避开控制条，问题小得多。方案一的真实代价是：缩略图栏隐藏时不能用鼠标评星，且 16pt 的星比 22pt 难点，对重度“鼠标挑图”的用户略慢；如果以后发现这类用户很多，可以再补方案三的“画面上显示评星控件”开关作为设置项。方案二我不推荐：它把一个新用户本来就发现不了的功能再藏起来，还会让每个去缩略图栏的人都看到胶囊闪一下。</p></div>
+ch('4','结论','',`
+<div class="howto" style="max-width:1440px"><b>最终决定</b>
+<p style="margin:6px 0 0">采用方案一：星放进缩略图栏信息行（16pt，居中），鼠标移动时照片上不出现任何和评星有关的东西。按 0–5 评星时，画面底部居中的胶囊闪现约 1 秒（视频文件上在控制条正上方），设置 › 浏览里有开关「评星时在画面上闪现星级」，默认开。方案二、三、以及闪现 (a) 都不采用。这个页面只作为选择过程的记录，开发请以 index.html 为准。</p></div>
 `);
 
 document.getElementById('doc').innerHTML=chapters.join('');
